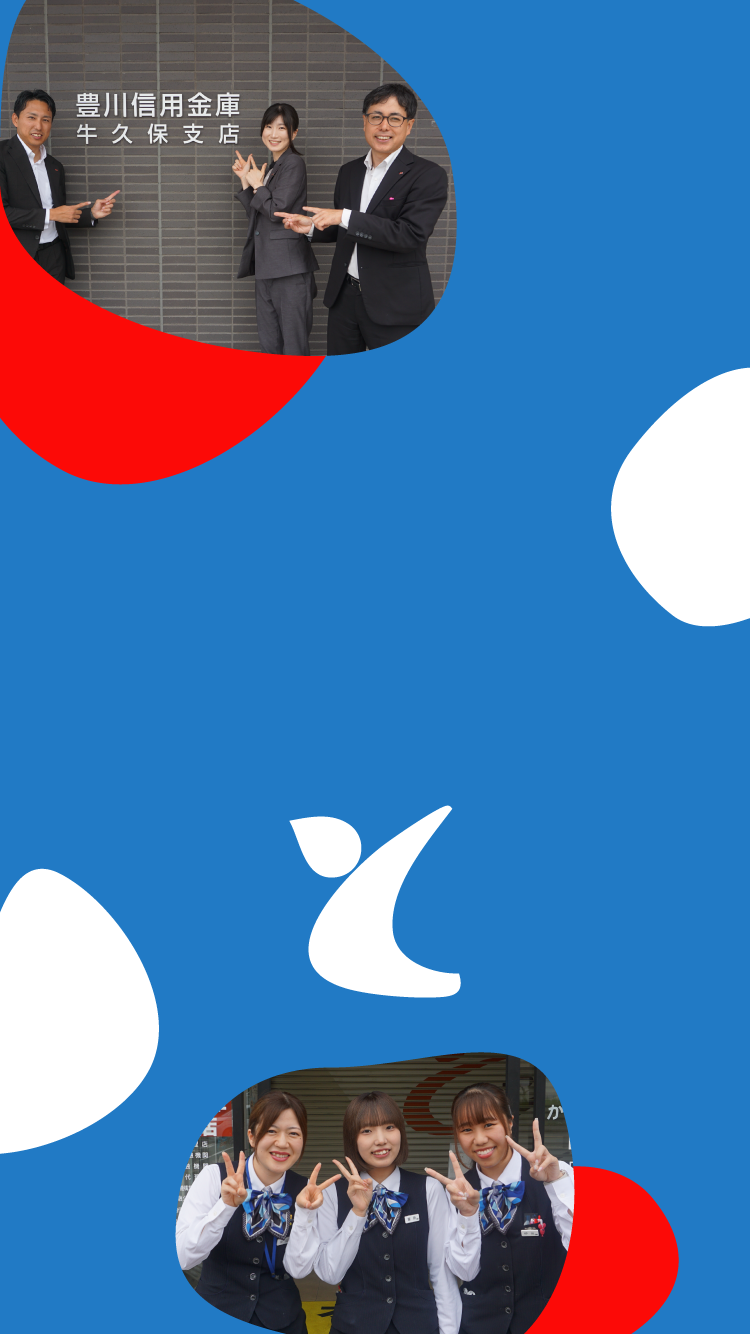
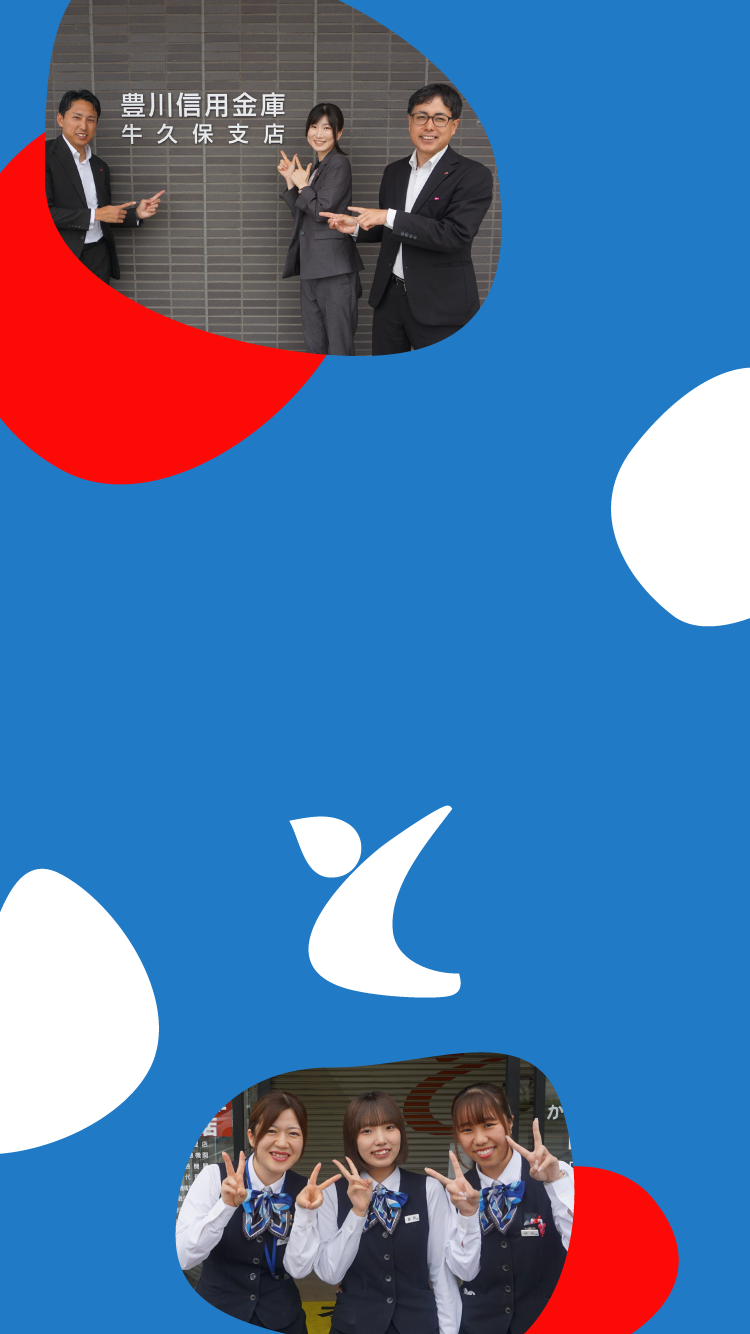
1.37

Changed region(s): [[0.0, 0.0, 0.6747, 0.2766]]

diff --git a/styles/style.css b/styles/style.css
@@ -11,9 +11,9 @@ body {
 
 h1 {
     color: #fff;
-    font-size: 3.5rem;
+    font-size: 3.75rem;
     font-weight: bold;
-    margin-bottom: 1em;
+    /* margin-bottom: 1em; */
 }
 
 h2 {
@@ -173,6 +173,27 @@ section {
         top: 50px;
         right: 0;
     }
+
+    & h2 {
+        position: relative;
+
+        & .fox-blue {
+            position: absolute;
+            width: 100px;
+            height: 100px;
+            top: -10px;
+            left: -135px;
+        }
+
+        & .fox-red {
+            position: absolute;
+            width: 100px;
+            height: 100px;
+            top: -10px;
+            right: -135px;
+            transform: scale(-1, 1);
+        }
+    }
 }
 
 .hukidashi {
@@ -323,6 +344,18 @@ img {
     -webkit-overflow-scrolling: touch;
 }
 
+
+@media screen and (max-width: 1024px) {
+    .message-container {
+        height: auto;
+        aspect-ratio: 16 / 9;
+    }
+
+    h1 {
+        margin-bottom: 0;
+    }
+}
+
 /* タブレット対応 (768px以下) */
 @media screen and (max-width: 768px) {
 
@@ -342,16 +375,9 @@ img {
         font-size: 1.3rem;
     } */
 
-    .message-container {
-        background-image: url(../image/mainvisualSP.png);
-    }
 
     .content {
         padding: 0 1rem;
-    }
-
-    .mobile-br {
-        display: block;
     }
 
     .section-title::before,
@@ -387,7 +413,9 @@ img {
     } */
 
     h1 {
-        font-size: 3rem;
+        font-size: 2.5rem;
+        line-height: 1.5;
+        margin-bottom: 50px;
     }
 
     h2 {
@@ -396,6 +424,15 @@ img {
 
     h3 {
         font-size: 1.5rem;
+    }
+
+    .message-container {
+        background-image: url(../image/mainvisualSP.png);
+        height: calc(100vh - 80px);
+    }
+
+    .mobile-br {
+        display: block;
     }
 
     .content {
@@ -415,6 +452,24 @@ img {
 
     .section-title::after {
         right: -2.5rem;
+    }
+
+    #news {
+        & h2 {
+            & .fox-blue {
+                width: 80px;
+                height: 80px;
+                top: 0;
+                left: -100px;
+            }
+
+            & .fox-red {
+                width: 80px;
+                height: 80px;
+                top: 0;
+                right: -100px;
+            }
+        }
     }
 }
 

diff --git a/index.html b/index.html
@@ -82,7 +82,11 @@
         <section id="news" class="section">
             <div class="news-content">
                 <div class="section-title4">
-                    <h2>お知らせ</h2>
+                    <h2>
+                        <img src="image/fox_blue.png" alt="きつね青" class="fox-blue">
+                        お知らせ
+                        <img src="image/fox_red.png" alt="きつね赤" class="fox-red">
+                    </h2>
                     <p class="section-title-text">NEWS</p>
                 </div>
                 <div class="news-content-item">
